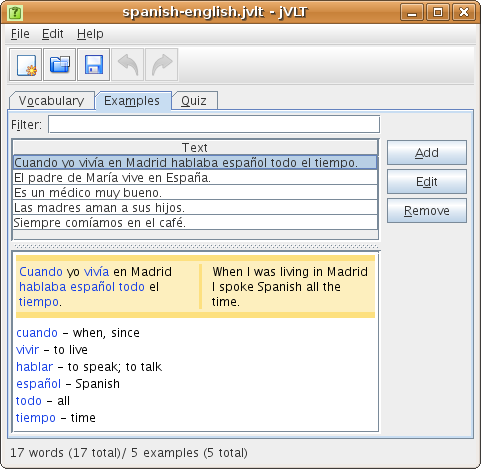
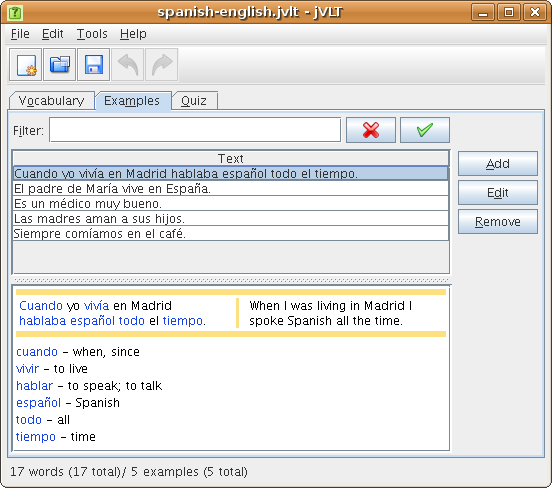
Updated documentation
git-svn-id: https://svn.code.sf.net/p/jvlt/code/trunk@207 2e8f9017-362f-4c5f-8fba-3cd18fd43268

diff --git a/jvlt-main/doc/default/doc-vocabulary.html b/jvlt-main/doc/default/doc-vocabulary.html
@@ -40,21 +40,21 @@ detailed view.
 <h2>
 <a name="word_list">Word list</a>
 </h2>
-Initially the word list shows all words of your vocabulary. There are
-two ways to search for certain entries. The first possibility is
-to enter a string in the "Filter" text field and press "Enter" afterwards.
-The list then shows those words which contain the filter string and those
-that have a pronunciation or sense which contains it. If you want to
-see the full list again, delete the string in the filter field and press
-"Enter" again. <br>
+Initially the word list shows all words of your vocabulary. You can search for
+certain entries by using the "Filter" row right above the word table. By
+selecting an entry from the drop-down list you determine the type of the search.
+After that you can enter an expression in the text field and press the button
+with the check mark or press the "Enter" key to apply the filter. By pressing
+the button with the cross, you reset the filter, which results in all
+words being shown.<br>
 <br>
 
 <img alt="Filter" src="filter.png"> <br>
 <br>
-The second possibility is to activate the "Advanced filter" box and then
-to define a filter in the dialog that appears after pressing the button
-labelled "Advanced...".<br>
-Filters are composed of one or many subfilters, each represented by a row
+If you select the "Advanced Filter" entry in the drop-down list, the check mark
+button is replaced by a "..." button. After pressing this button, a dialog
+appears that allows you to define a more sophisticated filter.<br>
+Such filters are composed of one or many subfilters, each represented by a row
 which contains three columns. In the first column, you select the attribute
 (Original, Pronunciation etc.), in the second column the comparison type,
 e.g., "equals", "greater than", "less than". In the last column the value
@@ -113,8 +113,8 @@ The detailed view shows spelling, pronunciation, translation
 and examples of the word which is currently selected in the word list.
 In the <a href="doc-settings.html#appearance-settings">Appearance tab</a>
 of the settings dialog you can determine how many details are shown.
-If an example is selected, the sense associated with the respective example
-is highlighted. By double-clicking a certain example you get to the
+If an example is selected, the meaning associated with the respective example
+is highlighted. By clicking the "Edit" link next to an example, you get to the
 <a href="doc-examples.html"> examples tab</a>.
 <br>
 <br>
@@ -137,25 +137,26 @@ clicking on an image file icon opens a new window which shows the image.
 <a name="add_word">Adding words </a> 
 </h2>
 By clicking on the "Add" button next to the word list, you can add words
-to your vocabulary.	In the dialog, you can see the two text fields
-"Original" and "Pronunciation". The first text field is mandatory, the
-second one is optional. If the word you are going to enter has multiple
-possible pronunciations, press the "More..." button.<br>
+to your vocabulary.	In the dialog, you can see the three text fields
+"Original", "Pronunciation" and "Lesson". The first text field is mandatory, the
+second and the third ones are optional. If the word you are going to enter has
+multiple possible pronunciations, press the "More..." button. Existing lessons
+can be selected by pressing the arrow button next to the text field and
+choosing the lesson from the drop-down menu.<br>
 <br>
 
 <img alt="Add word" src="add_word.png"> <br>
 <br>
-A word must have at least one sense. You can add senses by pressing the
-"Add sense" button next to the list view and
-enter strings in the "Translation"
-field and in the "Definition" field. The definition of a word is a short
-note about its type, usage etc. You do not need to provide strings for
-both fields, one is enough. If a word has more than one sense, you can
-change the order of the senses by using the arrow buttons on the left side
-of the list view.<br>
+A word must have at least one meaning. You can add meanings by pressing the
+"Add" button next to the list view and enter text in the "Translation"
+field and in the "Definition" field. The definition of a word is a short note
+about its type, usage etc. You do not need to provide strings for both fields,
+one is enough. If a word has more than one meaning, you can change the order of
+the meanings by using the arrow buttons on the left side of the list
+view.<br>
 <br>
 
-<img alt="Add sense" src="add_sense.png"> <br>
+<img alt="Add meaning" src="add_sense.png"> <br>
 <br>
 After you finished editing the word, press "Apply" and the word will be added.
 The dialog won't close after that - you can continue to add words or
@@ -211,8 +212,8 @@ You can edit a word by first selecting it in the
 <a href="doc-vocabulary.html#word_list">word list</a> and then
 pressing the "Edit" button next to the list.
 Editing a single word is basically the same as adding a word. There is one
-difference, though: If you want to remove a sense, you have to make sure that
-there is no example linked to that sense.
+difference, though: If you want to remove a meaning, you have to make sure that
+there is no example linked to it.
 <br>
 <br>
 If you select multiple words before you press "Edit" - either by using

diff --git a/jvlt-main/doc/default/doc-examples.html b/jvlt-main/doc/default/doc-examples.html
@@ -36,10 +36,11 @@
 
 The example tab contains two main components: The example list and an
 information area that displays the example currently selected in the example
-list. If you double-click on one of the words in the information area, the
+list. If you click on one of the words in the information area, the
 <a href="doc-vocabulary.html">vocabulary tab</a> is activated and the
 respective word is selected.  Like the vocabulary tab, the example tab contains
-a "Filter" text field. If you insert a string into it and press the "Enter"
+a "Filter" text field. If you insert a string into it and press the button
+with the check mark or the "Enter"
 key, then only those examples are shown that contain the entered string. You
 can <a href="#add_example">insert</a>, change or remove examples by pressing
 the buttons next to the example list.
@@ -79,8 +80,8 @@ then you will have to change the automatically entered string "made" into
 <br>
 <br>
 After the filter is applied you get a list of matching words. Each word
-item contains a list of subitems which stand for the senses of the word.
-In order to create a link you have to select one of the senses of one of
+item contains a list of subitems which stand for the meanings of the word.
+In order to create a link you have to select one of the meanings of one of
 the words and press the "Add" button. If you want to remove a link,
 select it from the list below the "Translation" text field and click
 "Remove". <br>

diff --git a/jvlt-main/doc/default/doc-quizzes.html b/jvlt-main/doc/default/doc-quizzes.html
@@ -41,7 +41,7 @@ you knew it	during the quiz. The batch number of known words increases
 to batch No. <i>2</i> after the quiz), not known words are
 assigned to batch No. <i>0</i>. After the quiz, a word
 becomes inactive for a certain period of time which depends on its
-current batch. "Inactive" means that a word will not be queried during
+current batch. "Inactive" means that a word will not appear in
 a quiz. The date a word becomes active again is also called
 "expiry date". The time until expiry can be adjusted in the
 <a href="doc-settings.html#general_settings">settings dialog</a>. The
